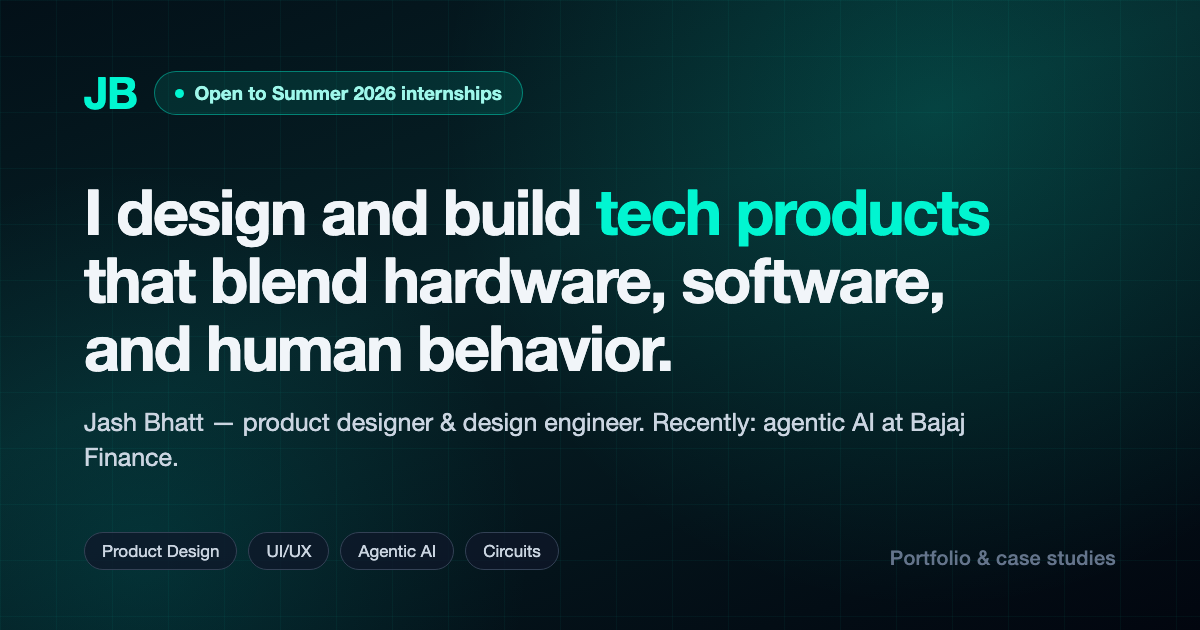
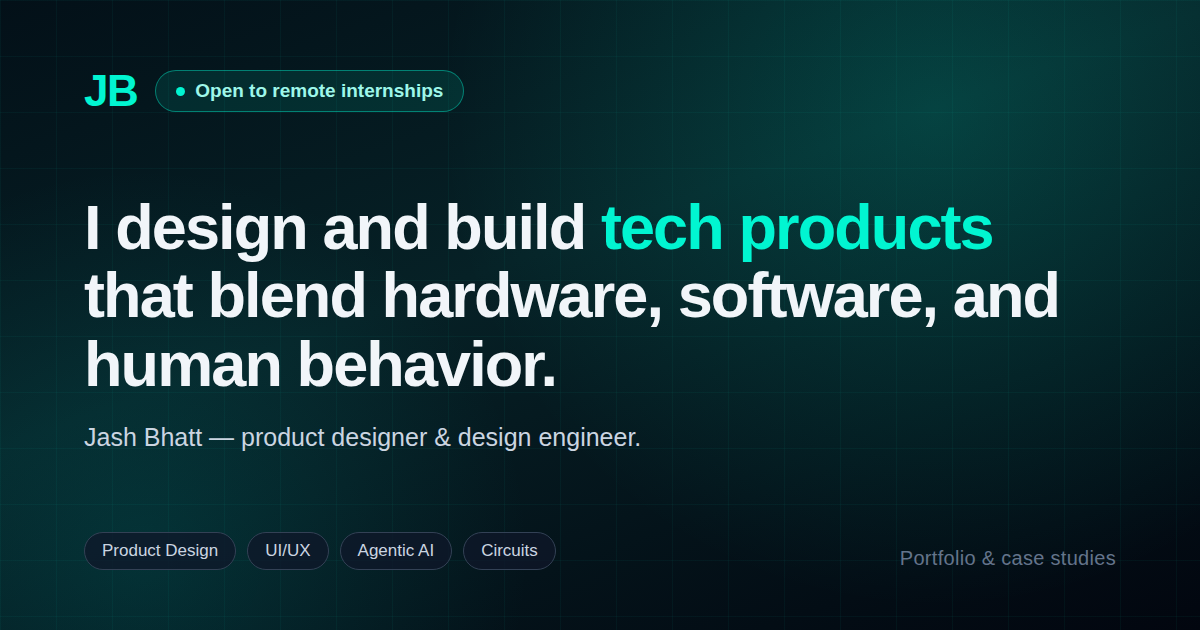
Align availability copy and metadata on remote
Follows the hero/stat copy change so the rest of the site says the same
thing:

- Hero badge: "Open to remote internships" (was Summer 2026).
- Contact badge: "Currently available — Remote" (was Summer 2026).
- Drop the "Recently: agentic AI at Bajaj Finance" sentence from the meta
  description and the OG/Twitter descriptions, matching the shortened
  hero intro. Covers both the static tags in index.html and the runtime
  default the home view sets.
- Regenerate og-image.png from scripts-og-card.html with the same two
  edits, so link previews don't still advertise Summer 2026.

Claude-Session: https://claude.ai/code/session_01PRwi7yYcjnFtQZXYk3zPk5

diff --git a/index.html b/index.html
@@ -9,7 +9,7 @@
     <link rel="manifest" href="/site.webmanifest" />
     <meta name="theme-color" content="#000000" />
     <meta name="viewport" content="width=device-width, initial-scale=1.0" />
-    <meta name="description" content="Jash Bhatt — product designer and design engineer. I design and build tech products that blend hardware, software, and human behavior. Recently: agentic AI at Bajaj Finance." />
+    <meta name="description" content="Jash Bhatt — product designer and design engineer. I design and build tech products that blend hardware, software, and human behavior." />
     <link rel="canonical" href="https://jashbhatt.com/" />
     <title>Jash Bhatt | Product Designer &amp; Design Engineer</title>
 
@@ -17,7 +17,7 @@
     <meta property="og:type" content="website" />
     <meta property="og:site_name" content="Jash Bhatt" />
     <meta property="og:title" content="Jash Bhatt | Product Designer &amp; Design Engineer" />
-    <meta property="og:description" content="I design and build tech products that blend hardware, software, and human behavior. Recently: agentic AI at Bajaj Finance." />
+    <meta property="og:description" content="I design and build tech products that blend hardware, software, and human behavior." />
     <meta property="og:url" content="https://jashbhatt.com/" />
     <meta property="og:image" content="https://jashbhatt.com/og-image.png" />
     <meta property="og:image:width" content="1200" />
@@ -28,7 +28,7 @@
     <!-- Twitter / X -->
     <meta name="twitter:card" content="summary_large_image" />
     <meta name="twitter:title" content="Jash Bhatt | Product Designer &amp; Design Engineer" />
-    <meta name="twitter:description" content="I design and build tech products that blend hardware, software, and human behavior. Recently: agentic AI at Bajaj Finance." />
+    <meta name="twitter:description" content="I design and build tech products that blend hardware, software, and human behavior." />
     <meta name="twitter:image" content="https://jashbhatt.com/og-image.png" />
   </head>
   <body>

diff --git a/src/App.tsx b/src/App.tsx
@@ -301,7 +301,7 @@ const App = () => {
 
     const defaultTitle = 'Jash Bhatt | Product Designer & Design Engineer';
     const defaultDescription =
-      'I design and build tech products that blend hardware, software, and human behavior. Recently: agentic AI at Bajaj Finance.';
+      'I design and build tech products that blend hardware, software, and human behavior.';
     document.title = defaultTitle;
     setMeta('meta[name="description"]', defaultDescription);
     setMeta('meta[property="og:title"]', defaultTitle);
@@ -590,7 +590,7 @@ const App = () => {
                   <div className="mb-6 animate-fade-in-up" style={{ animationDelay: '0ms' }}>
                     <span className="glass-chip inline-flex items-center gap-2.5 px-4 py-1.5 rounded-full !border-[#01F5D1]/40 !bg-[#01F5D1]/10 text-[#9EF7EA] text-sm font-medium">
                       <span className="pulse-dot" aria-hidden="true" />
-                      Open to Summer 2026 internships
+                      Open to remote internships
                     </span>
                   </div>
                   <h1 className="text-[2.4rem] md:text-[4.2rem] font-display text-slate-100 mb-4 md:mb-5 leading-[1.05] animate-fade-in-up" style={{ animationDelay: '60ms' }}>
@@ -1247,7 +1247,7 @@ const App = () => {
                   </p>
                   <span className="glass-chip inline-flex items-center gap-2.5 px-4 py-1.5 rounded-full !border-[#01F5D1]/40 !bg-[#01F5D1]/10 text-[#9EF7EA] text-sm font-medium">
                     <span className="pulse-dot" aria-hidden="true" />
-                    Currently available — Summer 2026
+                    Currently available — Remote
                   </span>
                 </Reveal>
 

diff --git a/scripts-og-card.html b/scripts-og-card.html
@@ -50,12 +50,12 @@
 
   <div class="row">
     <span class="mark">JB</span>
-    <span class="pill"><span class="dot"></span>Open to Summer 2026 internships</span>
+    <span class="pill"><span class="dot"></span>Open to remote internships</span>
   </div>
 
   <div>
     <h1>I design and build <span class="accent">tech products</span> that blend hardware, software, and human behavior.</h1>
-    <p class="sub">Jash Bhatt — product designer &amp; design engineer. Recently: agentic AI at Bajaj Finance.</p>
+    <p class="sub">Jash Bhatt — product designer &amp; design engineer.</p>
   </div>
 
   <div class="foot">
